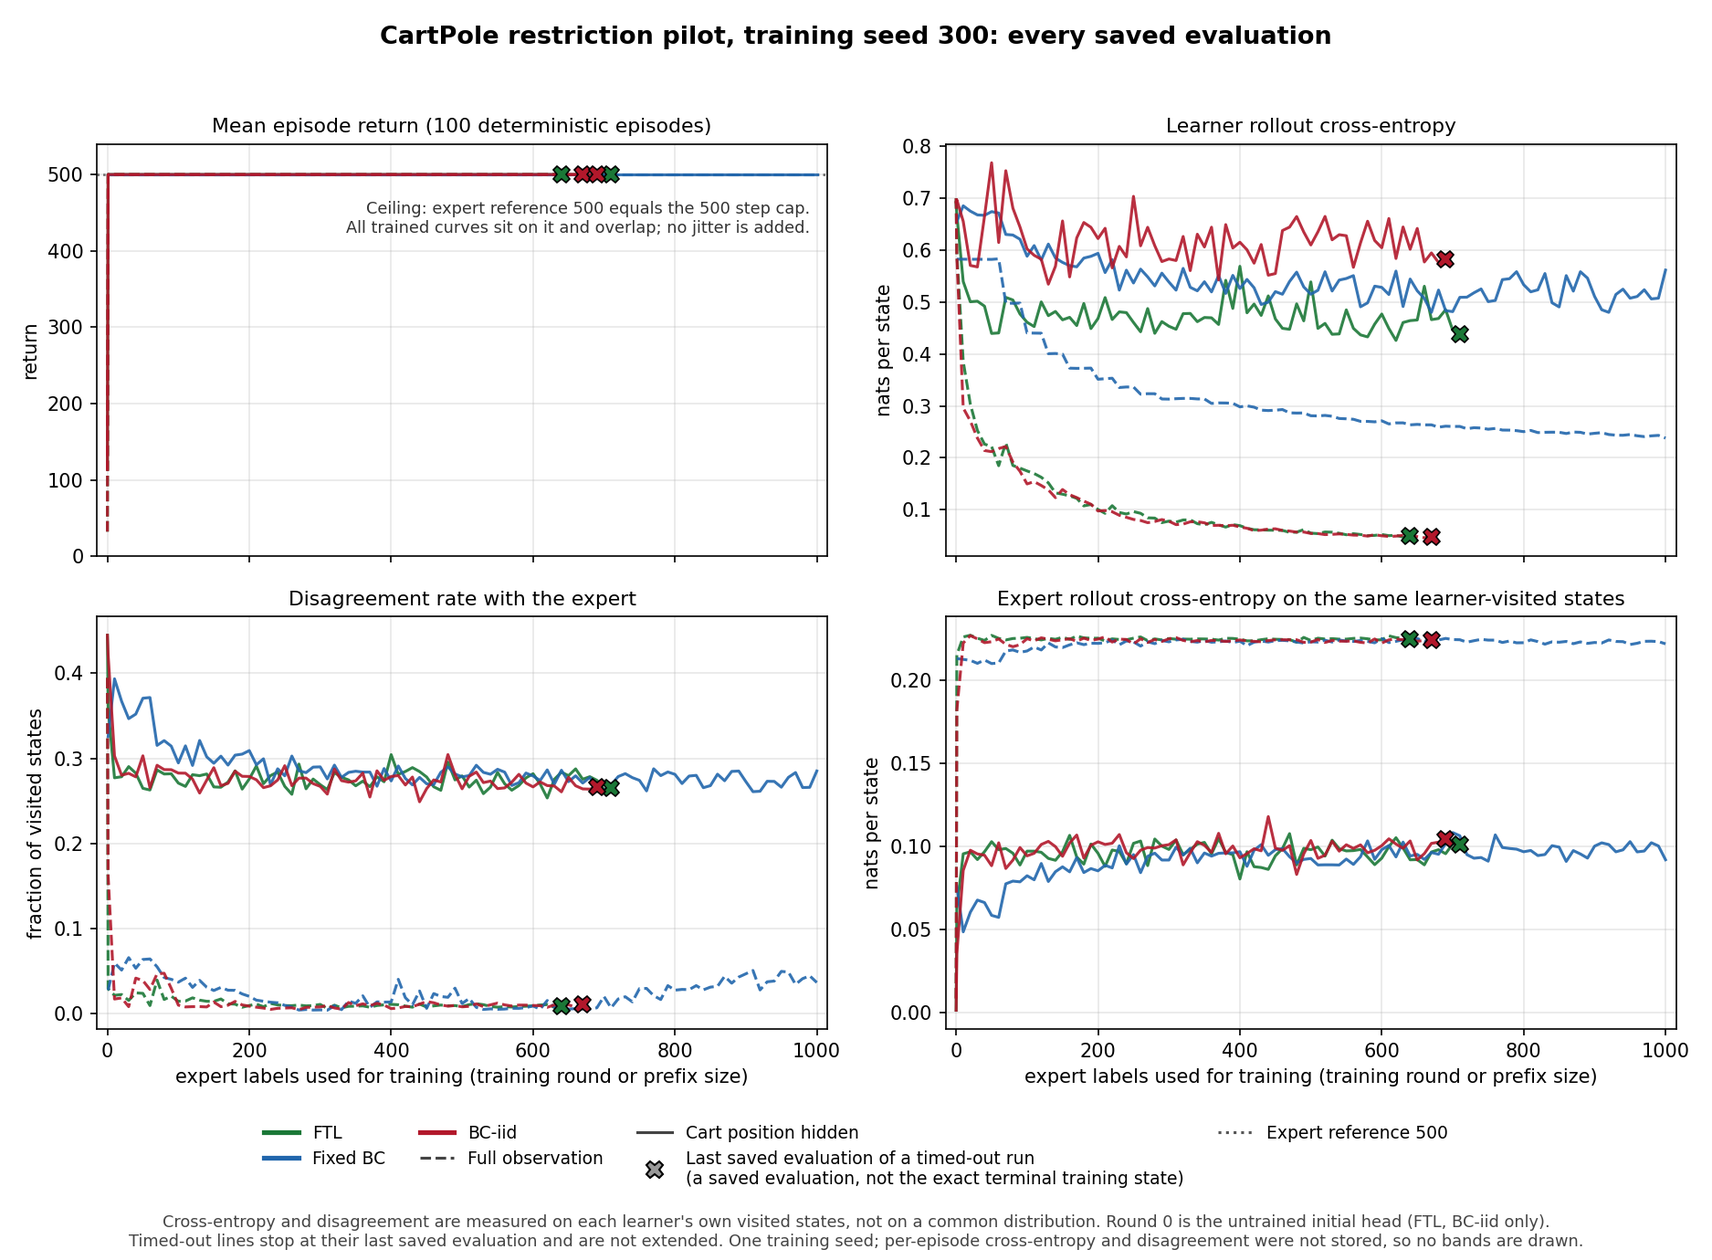
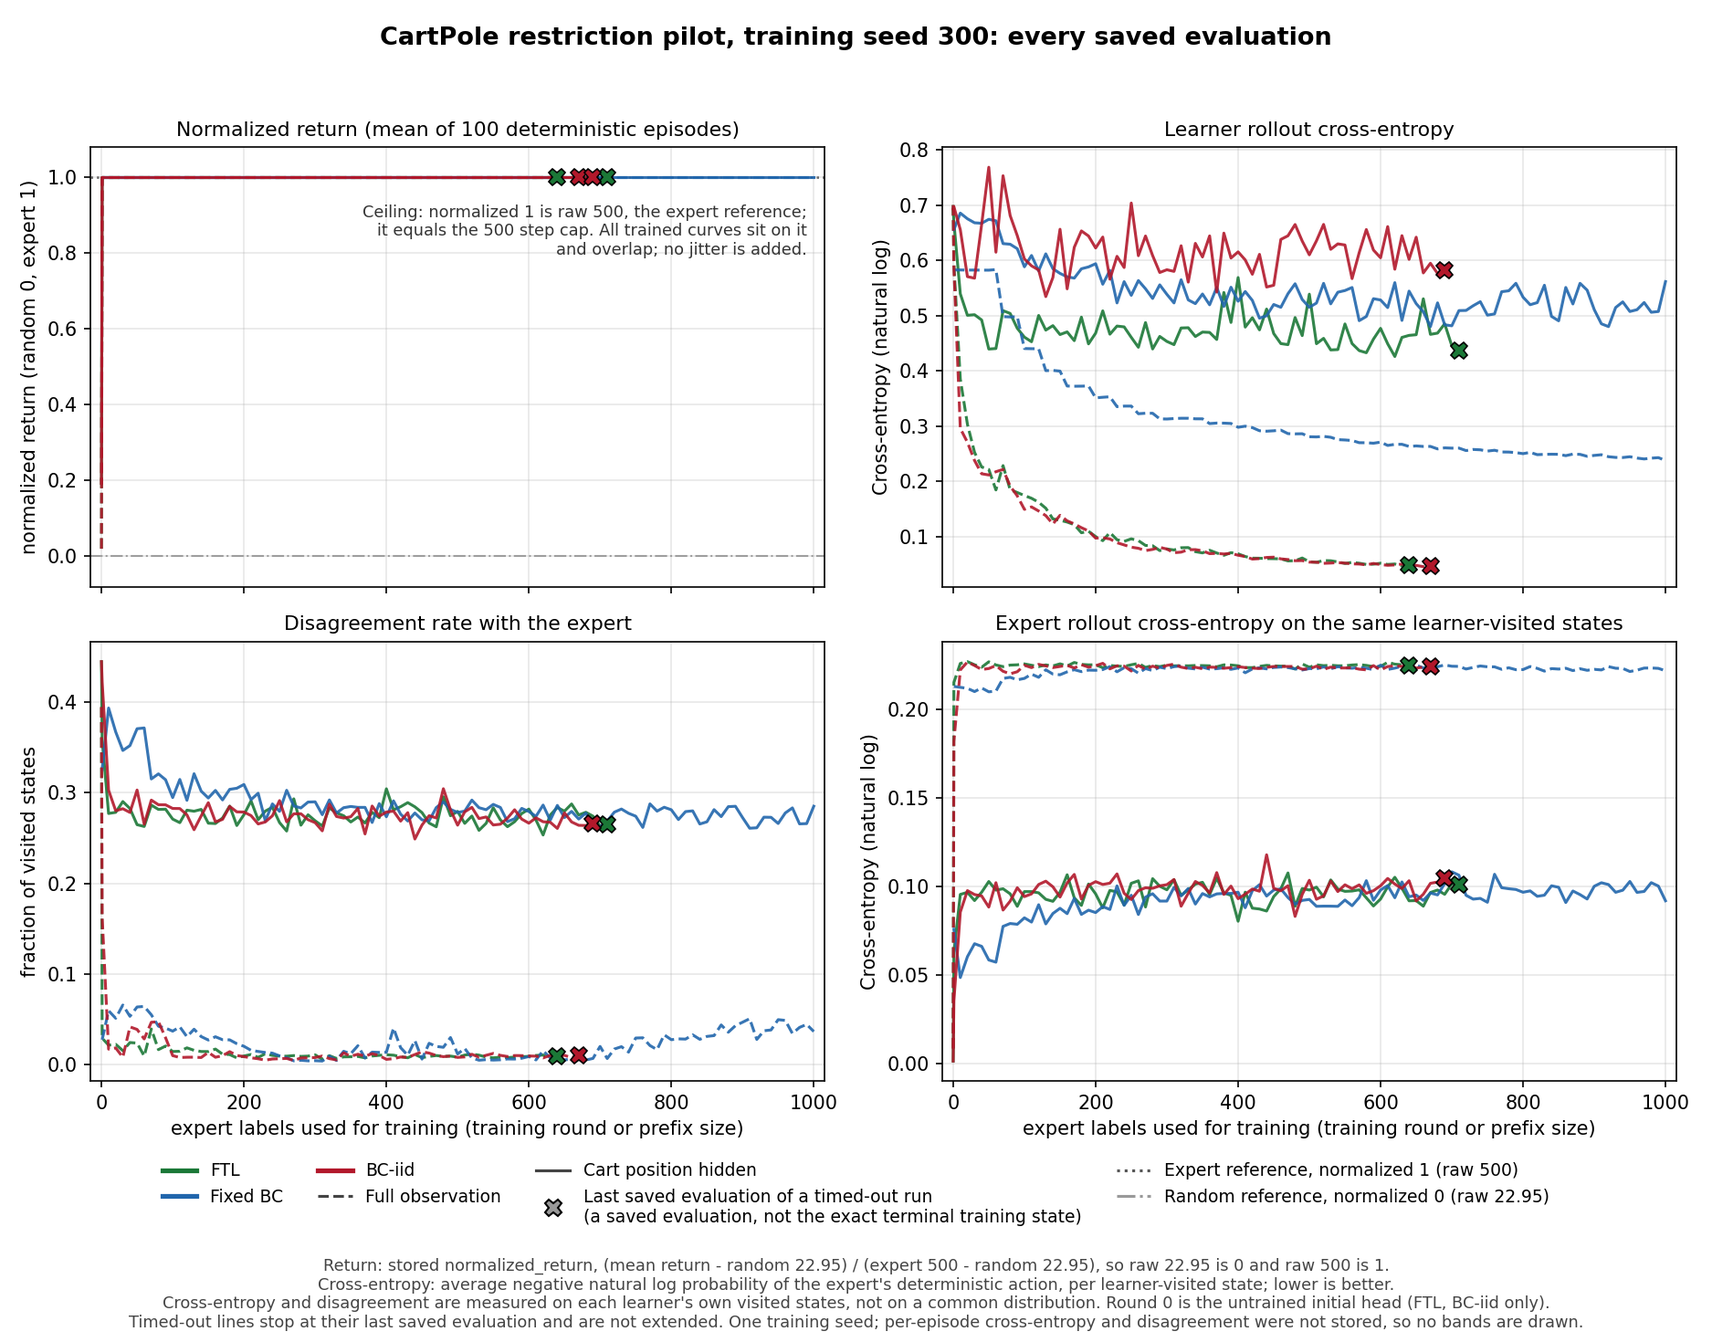
Restore normalized return in CartPole pilot figures

diff --git a/experiments/agnostic/analyze_cartpole_pilot.py b/experiments/agnostic/analyze_cartpole_pilot.py
@@ -43,6 +43,9 @@ SHARED_DATASET = {"ftl": None, "bc": "pool", "bc_iid": "stream"}
 RUN_STATES = {"complete", "timed_out"}
 LIVE_STATES = {"pending", "running"}
 METRICS = ("rollout_cross_entropy", "disagreement_rate", "expert_rollout_cross_entropy")
+# The producer (run_experiment._compute_round_eval) rounds normalized_return to six
+# decimals, so a faithful stored value is within half a unit of the sixth place.
+NORM_TOL = 0.5e-6 + 1e-12
 # Keys that legitimately differ between methods in config.experiment.
 METHOD_KEYS = {"algo", "subsample_strategy"}
 
@@ -239,6 +242,22 @@ def check_configs(runs):
 # ---------------------------------------------------------------- extraction
 
 
+def check_normalized(job_id, r, ret, baselines):
+    """The stored normalized_return must follow the inherited formula on raw returns.
+
+    Only a check: the stored value is what gets reported and plotted.
+    """
+    expert_ret, random_ret = baselines["expert_return"], baselines["random_return"]
+    require(abs(expert_ret - random_ret) >= 1e-8,
+            f"{job_id}: degenerate normalization references")
+    stored = r["normalized_return"]
+    require(stored is not None, f"{job_id}: round {r['round']} has no normalized_return")
+    expected = (ret.mean() - random_ret) / (expert_ret - random_ret)
+    require(abs(stored - expected) <= NORM_TOL,
+            f"{job_id}: round {r['round']} normalized_return {stored} differs from "
+            f"(mean return - random) / (expert - random) = {expected}")
+
+
 def curve(job_id, rec, n_episodes, cap):
     points = []
     for r in rec["records"]:
@@ -248,6 +267,7 @@ def curve(job_id, rec, n_episodes, cap):
             continue
         ret = np.asarray(r["episode_returns"], dtype=float)
         require(ret.size == n_episodes, f"{job_id}: evaluation with {ret.size} episodes")
+        check_normalized(job_id, r, ret, rec["data"]["baselines"])
         points.append({
             "labels": int(r["n_observations"]),
             "round": int(r["round"]),
@@ -372,10 +392,13 @@ def label(job_id):
     return f"{METHOD_LABEL[m]}, {OBS_LABEL[r]}"
 
 
-def curves_figure(points, rows, expert_return, cap, ceiling, n_episodes):
-    fig, axes = plt.subplots(2, 2, figsize=(12.5, 9.2), sharex=True)
+def curves_figure(points, rows, baselines, cap, ceiling, n_episodes):
+    expert_return = baselines["expert_return"]
+    random_return = baselines["random_return"]
+    fig, axes = plt.subplots(2, 2, figsize=(12.5, 9.8), sharex=True)
     panels = [
-        ("mean_return", f"Mean episode return ({n_episodes} deterministic episodes)"),
+        ("normalized_return",
+         f"Normalized return (mean of {n_episodes} deterministic episodes)"),
         ("rollout_cross_entropy", "Learner rollout cross-entropy"),
         ("disagreement_rate", "Disagreement rate with the expert"),
         ("expert_rollout_cross_entropy",
@@ -394,20 +417,24 @@ def curves_figure(points, rows, expert_return, cap, ceiling, n_episodes):
         ax.set_xlim(-15, 1015)
         ax.grid(alpha=0.3)
     ax = axes[0, 0]
-    ax.axhline(expert_return, color="#555555", ls=":", lw=1.2, zorder=0)
-    ax.set_ylim(0, cap * 1.08)
+    ax.axhline(1.0, color="#555555", ls=":", lw=1.2, zorder=0)
+    ax.axhline(0.0, color="#999999", ls="-.", lw=1.0, zorder=0)
+    # Limits follow the stored values so nothing is clipped.
+    norm = [p["normalized_return"] for j in RUN_IDS for p in points[j]]
+    ax.set_ylim(min(0.0, min(norm)) - 0.08, max(1.0, max(norm)) + 0.08)
     same = "equals" if expert_return == cap else "differs from"
     ceiling_text = (
-        f"Ceiling: expert reference {expert_return:g} {same} the {cap} step cap.\n"
-        + ("All trained curves sit on it and overlap; no jitter is added."
-           if ceiling else "Curves that reach it overlap; no jitter is added.")
+        f"Ceiling: normalized 1 is raw {expert_return:g}, the expert reference;\n"
+        f"it {same} the {cap} step cap. "
+        + ("All trained curves sit on it\nand overlap; no jitter is added."
+           if ceiling else "Curves that reach it\noverlap; no jitter is added.")
     )
-    ax.text(990, cap * 0.93, ceiling_text, ha="right", va="top", fontsize=8.5,
+    ax.text(990, 0.93, ceiling_text, ha="right", va="top", fontsize=8.5,
             color="#333333")
-    ax.set_ylabel("return")
-    axes[0, 1].set_ylabel("nats per state")
+    ax.set_ylabel("normalized return (random 0, expert 1)")
+    axes[0, 1].set_ylabel("Cross-entropy (natural log)")
     axes[1, 0].set_ylabel("fraction of visited states")
-    axes[1, 1].set_ylabel("nats per state")
+    axes[1, 1].set_ylabel("Cross-entropy (natural log)")
     for ax in axes[1]:
         ax.set_xlabel("expert labels used for training (training round or prefix size)")
     handles = [Line2D([], [], color=COLOR[m], lw=2.5, label=METHOD_LABEL[m])
@@ -418,14 +445,23 @@ def curves_figure(points, rows, expert_return, cap, ceiling, n_episodes):
         Line2D([], [], ls="none", marker="X", ms=9, color="#999999", mec="black",
                label="Last saved evaluation of a timed-out run\n"
                      "(a saved evaluation, not the exact terminal training state)"),
-        Line2D([], [], color="#555555", ls=":", label=f"Expert reference {expert_return:g}"),
+        Line2D([], [], color="#555555", ls=":",
+               label=f"Expert reference, normalized 1 (raw {expert_return:g})"),
+        Line2D([], [], color="#999999", ls="-.",
+               label=f"Random reference, normalized 0 (raw {random_return:g})"),
     ]
     fig.legend(handles=handles, loc="lower center", ncol=4, fontsize=9, frameon=False,
-               bbox_to_anchor=(0.5, 0.045))
+               bbox_to_anchor=(0.5, 0.075))
     fig.suptitle("CartPole restriction pilot, training seed 300: every saved evaluation",
                  fontsize=13, fontweight="bold")
     fig.text(
         0.5, 0.008,
+        "Return: stored normalized_return, "
+        f"(mean return - random {random_return:g}) / "
+        f"(expert {expert_return:g} - random {random_return:g}), so raw "
+        f"{random_return:g} is 0 and raw {expert_return:g} is 1.\n"
+        "Cross-entropy: average negative natural log probability of the expert's "
+        "deterministic action, per learner-visited state; lower is better.\n"
         "Cross-entropy and disagreement are measured on each learner's own visited "
         "states, not on a common distribution. Round 0 is the untrained initial head "
         "(FTL, BC-iid only).\nTimed-out lines stop at their last saved evaluation and "
@@ -433,7 +469,7 @@ def curves_figure(points, rows, expert_return, cap, ceiling, n_episodes):
         "disagreement were not stored, so no bands are drawn.",
         ha="center", va="bottom", fontsize=8.5, color="#444444",
     )
-    fig.tight_layout(rect=(0, 0.12, 1, 0.96))
+    fig.tight_layout(rect=(0, 0.135, 1, 0.96))
     return fig
 
 
@@ -512,10 +548,12 @@ def report(s, analysis_sha):
     B = s["matched_budget"]["labels"]
     ceil = s["return_ceiling"]
     fp = s["provenance"]
-    exp_ret, cap = s["expert_return"], s["episode_cap"]
-    reference = (f"the expert reference return ({exp_ret:g}), which equals the {cap} "
-                 "step cap" if exp_ret == cap else
-                 f"the expert reference return ({exp_ret:g}); the step cap is {cap}")
+    exp_ret, rnd_ret, cap = s["expert_return"], s["random_return"], s["episode_cap"]
+    reference = (f"Normalized 1 here corresponds to raw {exp_ret:g} and remains a "
+                 f"ceiling: the expert reference equals the {cap} step cap"
+                 if exp_ret == cap else
+                 f"Normalized 1 here corresponds to raw {exp_ret:g}; the step cap is "
+                 f"{cap}")
     data_sh = shared["data"]
     lines = [
         "# CartPole restriction pilot: results",
@@ -540,7 +578,8 @@ def report(s, analysis_sha):
         lines.append(
             f"- Every saved evaluation of a trained policy, in all six runs and both "
             f"observation conditions, scored {cap} in all {s['eval_episodes']} episodes, "
-            "starting with the first one-label evaluation. Return is at its ceiling and "
+            "starting with the first one-label evaluation (stored normalized return 1, "
+            f"which corresponds to raw {exp_ret:g}). Return is at its ceiling and "
             "cannot separate methods or observation conditions here.")
     else:
         lines.append(
@@ -586,8 +625,22 @@ def report(s, analysis_sha):
         "- An X marks a timed-out run's last saved evaluation. It is a saved "
         "evaluation, not the exact training state at termination, and the line is not "
         "extended toward 1,000.",
-        f"- The dotted line is {reference}. Return curves that reach it coincide and "
-        "overlap; no jitter is added.",
+        "- The return panel draws the stored `normalized_return`, the inherited "
+        "(mean return - random return) / (expert return - random return), with the "
+        f"random reference {rnd_ret:g} at 0 (dash-dot line) and the expert reference "
+        f"{exp_ret:g} at 1 (dotted line). {reference}. Return curves that reach 1 "
+        "coincide and overlap; no jitter is added.",
+        "- Each stored `normalized_return` was checked against its raw episode mean "
+        "and the stored references, within the producer's six-decimal rounding. The "
+        "stored values are plotted as recorded: none was recomputed, replaced or "
+        "clipped. Tables below and both JSON files keep raw returns.",
+        "- The previous version of this figure plotted raw mean return. That was a "
+        "presentation departure from the stored metric, not a different evaluation; "
+        "this figure restores the stored normalized return.",
+        "- Cross-entropy (natural log) is the average negative natural log probability "
+        "of the expert's deterministic action, per learner-visited state; lower is "
+        "better. The earlier axis label \"nats per state\" named the same quantity. "
+        "This is a unit clarification, not a changed metric.",
         "- Learner cross-entropy, disagreement and expert cross-entropy are computed "
         "on the states each learner visited during its own evaluation episodes. They "
         "are not errors on a common state distribution, so a lower value does not mean "
@@ -599,7 +652,8 @@ def report(s, analysis_sha):
         "the maximum of the intersection of the six sets of evaluated label counts, "
         "taken mechanically and not by effect size. Values are descriptive for one "
         "training seed. No winner is selected and no test is run. Return is shown as "
-        "the mean with the episode minimum to maximum.",
+        "the raw mean with the episode minimum to maximum. Cross-entropy columns use "
+        "the natural log, as defined above.",
         "",
         "| Method | Observation | Labels | Return mean (min to max) | Learner CE | "
         "Disagreement | Expert CE |",
@@ -722,7 +776,8 @@ def report(s, analysis_sha):
         f"{s['bc_batch_size']}; the effective sizes follow from source and were not "
         "separately instrumented. This changes optimization, not only speed, so fixed "
         "BC versus BC-iid does not isolate data acquisition.",
-        "- **Return ceiling.** Reaching the cap after one label is a pilot finding for "
+        "- **Return ceiling.** Reaching the cap after one label (normalized return 1, "
+        f"raw {exp_ret:g}) is a pilot finding for "
         "this learner, the CartPole reset distribution and the 500 step limit. It does "
         "not show that hiding cart position is harmless in general or that FTL cannot "
         "help.",
@@ -938,6 +993,11 @@ def main():
                     "config_sha256 of the data job and six runs, with the producer's "
                     "canonical JSON (sorted keys, compact separators)",
                     "data result hash cited by every run",
+                    "normalized_return of every saved evaluation checked against "
+                    "(mean episode return - random_return) / (expert_return - "
+                    "random_return) on its raw episode returns and stored references, "
+                    "within the producer's six-decimal rounding; the stored value is "
+                    "reported, never replaced",
                 ],
                 "compared_for_equality_only": [
                     "campaign source hash across the three inventories",
@@ -986,6 +1046,12 @@ def main():
         "campaign": campaign,
         "notes": [
             "Cross-entropy and disagreement are on each learner's own visited states.",
+            "Cross-entropy is the average negative natural log probability of the "
+            "expert's deterministic action per learner-visited state; lower is better.",
+            "The learning-curve figure plots the stored normalized_return (random 0, "
+            "expert 1); normalized 1 here corresponds to raw expert_return and, with "
+            "expert_return equal to the episode cap, remains a ceiling. Raw returns "
+            "are kept in these files.",
             "Timed-out counts are saved counts or observed lower bounds, not totals.",
             "Null values are unknown, never zero.",
             "Controller wall time is worker wall time, not CPU or GPU hours or money.",
@@ -1014,7 +1080,7 @@ def main():
         hits = sorted(t for t in banned if t and t in text)
         require(not hits, f"{name}: refusing to write private or banned text {hits}")
     images = {
-        FIG_CURVES: png(curves_figure(points, rows, expert_return, cap,
+        FIG_CURVES: png(curves_figure(points, rows, data["baselines"], cap,
                                       summary["return_ceiling"][
                                           "all_trained_evaluations_at_cap"],
                                       n_episodes)),

diff --git a/experiments/agnostic/CARTPOLE_PILOT_RESULTS.md b/experiments/agnostic/CARTPOLE_PILOT_RESULTS.md
@@ -5,7 +5,7 @@ Records as of the last controller attempt end, September 30, 2026, 6:17 pm Phoen
 ## Outcome
 
 - 2 of 6 runs completed; 4 were stopped by the external 7,200 second job limit (`timed_out`). Timed-out runs are reported up to their last saved evaluation only.
-- Every saved evaluation of a trained policy, in all six runs and both observation conditions, scored 500 in all 100 episodes, starting with the first one-label evaluation. Return is at its ceiling and cannot separate methods or observation conditions here.
+- Every saved evaluation of a trained policy, in all six runs and both observation conditions, scored 500 in all 100 episodes, starting with the first one-label evaluation (stored normalized return 1, which corresponds to raw 500). Return is at its ceiling and cannot separate methods or observation conditions here.
 - Cross-entropy and disagreement are reported as recorded; each is measured on that learner's own visited states.
 - Fixed BC and BC-iid also differ in optimization (below), so their comparison does not isolate data acquisition.
 
@@ -28,12 +28,15 @@ The controller inventory is authoritative for terminal state. A timed-out run's 
 
 - Every saved evaluation is drawn. FTL and BC-iid include round 0 (the untrained initial head); fixed BC has no round 0 evaluation and starts at one label. Lines are not smoothed.
 - An X marks a timed-out run's last saved evaluation. It is a saved evaluation, not the exact training state at termination, and the line is not extended toward 1,000.
-- The dotted line is the expert reference return (500), which equals the 500 step cap. Return curves that reach it coincide and overlap; no jitter is added.
+- The return panel draws the stored `normalized_return`, the inherited (mean return - random return) / (expert return - random return), with the random reference 22.95 at 0 (dash-dot line) and the expert reference 500 at 1 (dotted line). Normalized 1 here corresponds to raw 500 and remains a ceiling: the expert reference equals the 500 step cap. Return curves that reach 1 coincide and overlap; no jitter is added.
+- Each stored `normalized_return` was checked against its raw episode mean and the stored references, within the producer's six-decimal rounding. The stored values are plotted as recorded: none was recomputed, replaced or clipped. Tables below and both JSON files keep raw returns.
+- The previous version of this figure plotted raw mean return. That was a presentation departure from the stored metric, not a different evaluation; this figure restores the stored normalized return.
+- Cross-entropy (natural log) is the average negative natural log probability of the expert's deterministic action, per learner-visited state; lower is better. The earlier axis label "nats per state" named the same quantity. This is a unit clarification, not a changed metric.
 - Learner cross-entropy, disagreement and expert cross-entropy are computed on the states each learner visited during its own evaluation episodes. They are not errors on a common state distribution, so a lower value does not mean lower error on the same states.
 
 ## Matched-label comparison
 
-The largest evaluation budget shared by all six curves is **640 labels**: the maximum of the intersection of the six sets of evaluated label counts, taken mechanically and not by effect size. Values are descriptive for one training seed. No winner is selected and no test is run. Return is shown as the mean with the episode minimum to maximum.
+The largest evaluation budget shared by all six curves is **640 labels**: the maximum of the intersection of the six sets of evaluated label counts, taken mechanically and not by effect size. Values are descriptive for one training seed. No winner is selected and no test is run. Return is shown as the raw mean with the episode minimum to maximum. Cross-entropy columns use the natural log, as defined above.
 
 | Method | Observation | Labels | Return mean (min to max) | Learner CE | Disagreement | Expert CE |
 | --- | --- | ---: | ---: | ---: | ---: | ---: |
@@ -104,7 +107,7 @@ Original expert preparation and qualification, local review, and report and plot
 
 - **Datasets.** Fixed BC cold-fits each prefix of a chronological pool (2 complete expert episodes, kept in order). BC-iid replays an independently reset stream, one uniformly selected state from each of 1,000 expert episodes, one state per round. The two datasets have different content hashes.
 - **Inherited optimizer mismatch.** As in the previous pipeline, FTL and BC-iid train with minibatch 1 (`min(32, samples_per_round)`) and refit after every label, up to 1,000 fits, while fixed BC uses minibatches of up to 32 and fits only the 101 evaluated prefixes. All six configs record `bc_batch_size` 32; the effective sizes follow from source and were not separately instrumented. This changes optimization, not only speed, so fixed BC versus BC-iid does not isolate data acquisition.
-- **Return ceiling.** Reaching the cap after one label is a pilot finding for this learner, the CartPole reset distribution and the 500 step limit. It does not show that hiding cart position is harmless in general or that FTL cannot help.
+- **Return ceiling.** Reaching the cap after one label (normalized return 1, raw 500) is a pilot finding for this learner, the CartPole reset distribution and the 500 step limit. It does not show that hiding cart position is harmless in general or that FTL cannot help.
 - **Audit scope.** The audit found 80 conflicting of 120 checked pairs: expert labels conflict under the mask. It does not establish a positive error floor on natural state distributions or a return gap.
 - **Frozen expert features** are a plausible explanation for the rapid control success, not a verified causal attribution.
 - **One training seed.** Training-seed uncertainty cannot be estimated from one training seed, and no general superiority claim is made. The episode minimum and maximum describe evaluation spread for one trained policy, not confidence about other training seeds. Per-episode cross-entropy and disagreement were not stored, so no uncertainty bands are drawn.
@@ -120,7 +123,7 @@ Original expert preparation and qualification, local review, and report and plot
[2 lines of base64/hex data omitted]
 - The config digests of the data job and all six runs were recomputed with the producer's canonical JSON and match. The source, expert, preparation and dataset digests above are reported as recorded: this analysis compares them across records but does not rehash the source, preparation or dataset files, which are not part of its input.
[2 lines of base64/hex data omitted]
 
 | Record | SHA-256 of the analyzed file | Controller hash |
 | --- | --- | --- |
